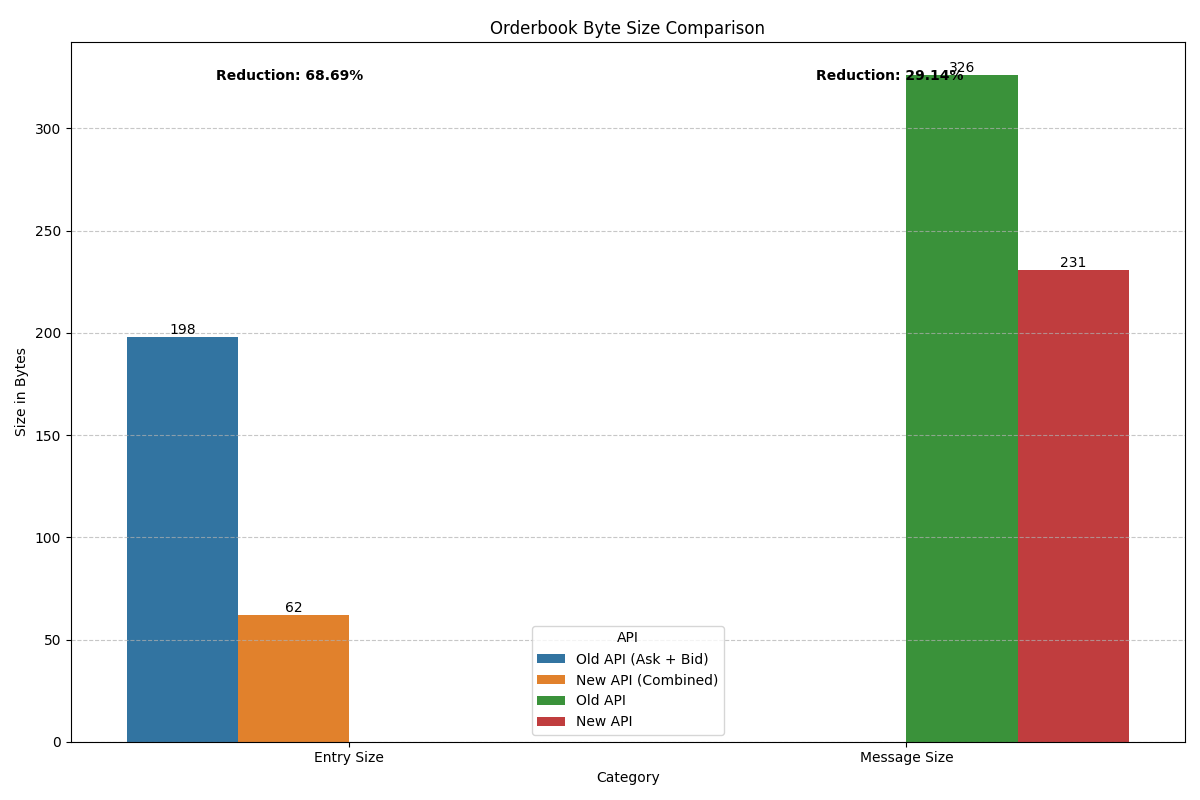
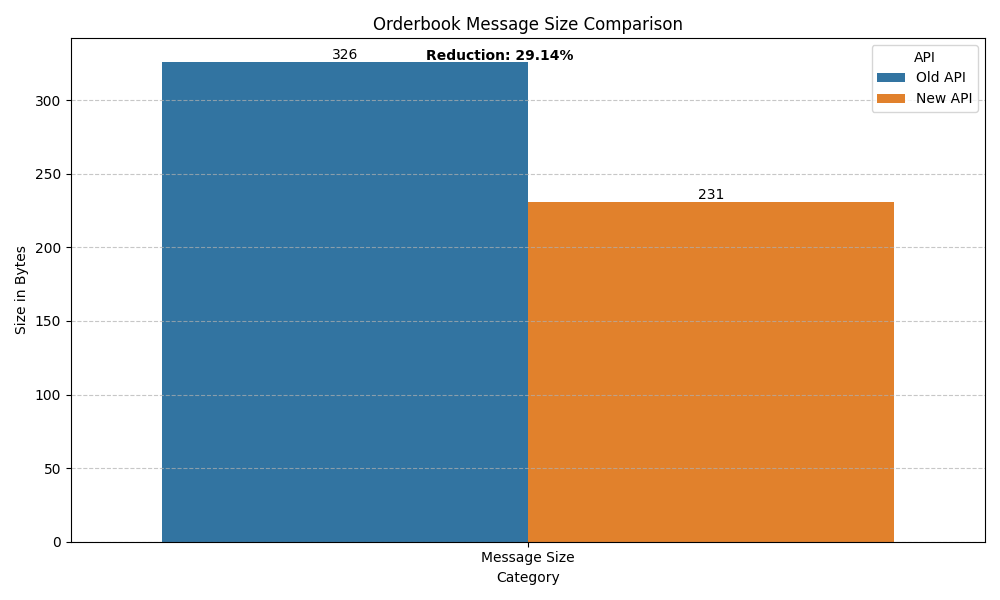
Remove entry-level byte-size comparison

diff --git a/analysis/orderbook_api_analysis.py b/analysis/orderbook_api_analysis.py
@@ -115,37 +115,19 @@ class OrderBookAPIAnalysis:
             "recv_time": "2024-11-28 12:25:01.414389"
         }
 
-        old_api_ask_bytes = len(json.dumps(old_api_ask))
-        old_api_bid_bytes = len(json.dumps(old_api_bid))
-        old_api_total_bytes = old_api_ask_bytes + old_api_bid_bytes
-
         old_api_message_bytes = len(json.dumps(old_api_container))
-
-        new_api_entry_bytes = len(json.dumps(new_api_entry))
         new_api_message_bytes = len(json.dumps(new_api_container))
 
-        entry_size_reduction = (
-            1 - new_api_entry_bytes / old_api_total_bytes) * 100
         message_size_reduction = (
             1 - new_api_message_bytes / old_api_message_bytes) * 100
 
         raw_data_df = pd.DataFrame({
             'Metric': [
-                'Old API: Single Ask Entry Size (bytes)',
-                'Old API: Single Bid Entry Size (bytes)',
-                'Old API: Total (Ask + Bid) (bytes)',
-                'New API: Single Combined Entry (bytes)',
-                'Entry Size Reduction (%)',
                 'Old API: Full Message Size (bytes)',
                 'New API: Full Message Size (bytes)',
                 'Full Message Size Reduction (%)',
             ],
             'Value': [
-                old_api_ask_bytes,
-                old_api_bid_bytes,
-                old_api_total_bytes,
-                new_api_entry_bytes,
-                f"{entry_size_reduction:.2f}%",
                 old_api_message_bytes,
                 new_api_message_bytes,
                 f"{message_size_reduction:.2f}%",
@@ -153,11 +135,6 @@ class OrderBookAPIAnalysis:
         })
 
         plot_data = [
-            {'Category': 'Entry Size',
-                'API': 'Old API (Ask + Bid)', 'Bytes': old_api_total_bytes},
-            {'Category': 'Entry Size',
-                'API': 'New API (Combined)', 'Bytes': new_api_entry_bytes},
-
             {'Category': 'Message Size', 'API': 'Old API',
                 'Bytes': old_api_message_bytes},
             {'Category': 'Message Size', 'API': 'New API',
@@ -166,9 +143,7 @@ class OrderBookAPIAnalysis:
 
         plot_df = pd.DataFrame(plot_data)
 
-        plot_df.attrs['entry_size_reduction'] = f"{entry_size_reduction:.2f}%"
         plot_df.attrs['message_size_reduction'] = f"{message_size_reduction:.2f}%"
-
         plot_df.attrs['raw_data'] = raw_data_df
 
         return plot_df
@@ -277,27 +252,23 @@ class OrderBookAPIAnalysis:
     def _plot_byte_size_comparison(self, save_path='reports/orderbook_byte_size_comparison.png') -> None:
         plot_df = self._compare_byte_size()
 
-        plt.figure(figsize=(12, 8))
+        plt.figure(figsize=(10, 6))
 
         ax = sns.barplot(x='Category', y='Bytes', hue='API', data=plot_df)
 
         for container in ax.containers:
             ax.bar_label(container)
 
-        plt.title('Orderbook Byte Size Comparison')
+        plt.title('Orderbook Message Size Comparison')
         plt.ylabel('Size in Bytes')
         plt.grid(True, linestyle='--', alpha=0.7, axis='y')
 
-        entry_reduction = plot_df.attrs['entry_size_reduction']
         message_reduction = plot_df.attrs['message_size_reduction']
 
-        plt.annotate(f"Reduction: {entry_reduction}",
-                     xy=(0, 0), xytext=(0.18, 0.90), textcoords='figure fraction',
-                     fontsize=10, fontweight='bold')
-
         plt.annotate(f"Reduction: {message_reduction}",
-                     xy=(0, 0), xytext=(0.68, 0.90), textcoords='figure fraction',
-                     fontsize=10, fontweight='bold')
+                     xy=(0, 0), xytext=(0.5, 0.90), textcoords='figure fraction',
+                     fontsize=10, fontweight='bold', 
+                     ha='center')
 
         plt.tight_layout()
         plt.savefig(save_path)
@@ -309,12 +280,7 @@ class OrderBookAPIAnalysis:
 
         raw_data = byte_size_df.attrs['raw_data']
 
-        print("Entry Size Comparison:")
-        print(f"  Old API (Ask + Bid): {raw_data.loc[2, 'Value']} bytes")
-        print(f"  New API (Combined): {raw_data.loc[3, 'Value']} bytes")
-        print(f"  Reduction: {raw_data.loc[4, 'Value']}")
-
-        print("\nFull Message Size Comparison:")
-        print(f"  Old API: {raw_data.loc[5, 'Value']} bytes")
-        print(f"  New API: {raw_data.loc[6, 'Value']} bytes")
-        print(f"  Reduction: {raw_data.loc[7, 'Value']}")
+        print("Full Message Size Comparison:")
+        print(f"  Old API: {raw_data.loc[0, 'Value']} bytes")
+        print(f"  New API: {raw_data.loc[1, 'Value']} bytes")
+        print(f"  Reduction: {raw_data.loc[2, 'Value']}")

diff --git a/README.md b/README.md
@@ -2,32 +2,18 @@
 
 ## What is the difference between two APIs?
 
-1. **Structure and Format**:
+1. **Structure, message size and Format**:
 
-   - Old API uses verbose field names (`type`, `orderType`, `quantity`, etc.) New API uses compact names (ty, ap, bp, etc.) for faster data transmission, economise resources, and reduce latency.
+   - Old API uses verbose field names (`type`, `orderType`, `quantity`, etc.) New API uses compact names (ty, ap, bp, etc.) for faster data transmission, economise resources, and reduce latency
    - New API uses Milliseconds, Old API - Microseconds
-   - Old API stores bids and asks as separate records. New API combines them as pairs at each price level, reducing payload size, message count, parsing/merge work, lowers memory cost.
-   - New API provides totals (`tas`, `tbs`).
+   - Old API stores bids and asks as separate records. New API combines them as pairs at each price level, reducing payload size, message count, parsing/merge work, lowers memory cost
+   - New API provides totals (`tas`, `tbs`)
 
 |                  | Old API                                  | New API                                                                                  |
 | ---------------- | ---------------------------------------- | ---------------------------------------------------------------------------------------- |
 | Field Names      | Verbose (`orderType`, `quantity`, etc.)  | Compact (`ap`, `bp`, `as`, `bs`, etc.). Giving up a bit of readability to reduce latency |
 | Timestamp Format | Microseconds (string)                    | Milliseconds (integer, faster for computing)                                             |
 | Data Strucutre   | Stores bids and asks as separate records | bid + ask pairs at each price level                                                      |
-
-2. **Message Size, Byte-Level Comparison**:
-
-here for Old API I merged ask + bid in one message, for the comparison to be fair
-
-- Full single messages are 29.14% smaller (231 bytes vs 326 bytes)
-- Bid + Ask entries are 68.69% smaller (198 bytes vs 62 bytes)
-
-| Comparison                  | Old API | New API | Reduction |
-| --------------------------- | ------- | ------- | --------- |
-| Bid + Ask entries (bytes)   | 198     | 62      | 68.69%    |
-| Full single message (bytes) | 326     | 231     | 29.14%    |
-
-The New API achieves these reductions through optimisation made in point 1
 
 ## Which API has better latency and why?
 
@@ -61,6 +47,64 @@ However, the new API does show higher variance (std dev 37.67ms vs 13.04ms) and 
 
    - Compare message sizes and consistency
    - Analyse byte-level structure differences
+
+The comparison below aims to see how many raw bytes each API needs to transmit one full depth level (ask + bid).
+So, to keep the comparison fair, the Old API example below contains two objects, while the New API example contains one (already has ask + bid in it).
+
+```json
+// Old API
+{
+  "type": "orderbookdepth",
+  "content": {
+    "datetime": "1732796700879952",
+    "list": [
+      {
+        "total": "1",
+        "orderType": "ask",
+        "quantity": "0.0387",
+        "price": "133331000",
+        "symbol": "ABC_USD"
+      },
+      {
+        "total": "2",
+        "orderType": "bid",
+        "quantity": "0.9006",
+        "price": "133281000",
+        "symbol": "ABC_USD"
+      }
+    ]
+  },
+  "recv_time": "2024-11-28 12:25:01.071989"
+}
+```
+
+```json
+// New API
+{
+  "ty": "orderbook",
+  "cd": "USD-ABC",
+  "tas": 0.2823,
+  "tbs": 1.1529,
+  "obu": [
+    {
+      "ap": 133331000,
+      "bp": 133281000,
+      "as": 0.0387,
+      "bs": 0.9006
+    }
+  ],
+  "lv": 1,
+  "tms": 1732796701204,
+  "st": "REALTIME",
+  "recv_time": "2024-11-28 12:25:01.414389"
+}
+```
+
+- New API has a full depth level message 29.14% smaller (231 bytes vs 326 bytes). It achieves this reductions through optimisation made in point 1.
+
+| Comparison                       | Old API | New API | Reduction |
+| -------------------------------- | ------- | ------- | --------- |
+| Full depth level message (bytes) | 326     | 231     | 29.14%    |
 
 3. **Structure Analysis**:
 
@@ -151,13 +195,10 @@ Is difference statistically significant? False
 Better API for latency: New API
 
 === Byte Size Comparison ===
-Entry Size Comparison:
-  Old API (Ask + Bid): 198 bytes
-  New API (Combined): 62 bytes
-  Reduction: 68.69%
-
 Full Message Size Comparison:
   Old API: 326 bytes
   New API: 231 bytes
   Reduction: 29.14%
+
+Reports saved to reports/ directory.
 ```
